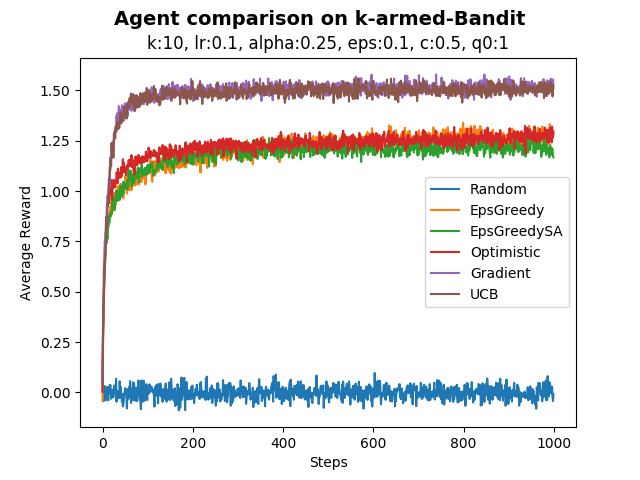
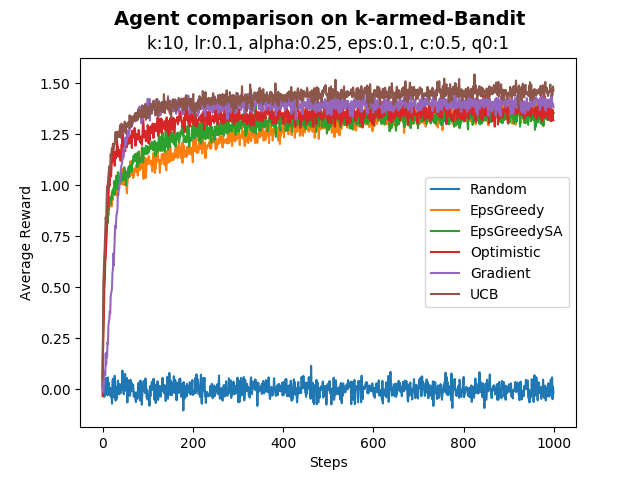
final

diff --git a/lab_session1/bandits/agents.py b/lab_session1/bandits/agents.py
@@ -85,11 +85,11 @@ class Random_Agent(Bandit_Agent):
 class EpsGreedy_SampleAverage(Bandit_Agent):
     # TODO: implement this class following the formalism above.
     # This class uses Sample Averages to estimate q; others are non stationary.
-    def __init__(self, k: int, lr: float, alpha: float, eps: float, c: float, q0: float, **kwargs):
-        self.k = k
+    def __init__(self, k: int, eps: float, **kwargs):
+        super(EpsGreedy_SampleAverage, self).__init__(k, **kwargs)
         keys = [i for i in range(self.k)]
-        self.q = {key: 0 for key in keys}
-        self.n = {key: 1 for key in keys}
+        self.q = {key: 0 for key in keys} #q-values
+        self.n = {key: 1 for key in keys} #number of times action chosen
         self.eps = eps
 
     def reset(self):
@@ -101,94 +101,67 @@ class EpsGreedy_SampleAverage(Bandit_Agent):
         self.q[a] = self.q[a] + (1.0 / self.n[a]) * (r - self.q[a])
         self.n[a] += 1
 
+
     def act(self) -> int:
         # random = np.random.randint(low=0, high=100)
         random = np.random.random_sample()
         if self.eps > random:
-            return np.random.randint(low=0, high=7)
+            return np.random.randint(low=0, high=10)
         else:
             return max(self.q, key=self.q.get)
 
 
-class EpsGreedy(Bandit_Agent):
+class EpsGreedy(EpsGreedy_SampleAverage):
     # TODO: implement this class following the formalism above.
     # Non stationary agent with q estimating and eps-greedy action selection.
-    def __init__(self, k: int, lr: float, alpha: float, eps: float, c: float, q0: float, **kwargs):
-        self.k = k
-        keys = [i for i in range(self.k)]
-        self.q = {key: 0 for key in keys}
-        self.eps = eps
+    def __init__(self, k: int, eps: float, lr: float, **kwargs):
+        super(EpsGreedy, self).__init__(k, eps, **kwargs)
         self.lr = lr
-
-    def reset(self):
-        keys = [i for i in range(self.k)]
-        self.q = {key: 0 for key in keys}
 
     def learn(self, a: int, r: float):
         self.q[a] = self.q[a] + self.lr * (r - self.q[a])
 
-    def act(self) -> int:
-        # random = np.random.randint(low=0, high=100)
-        random = np.random.random_sample()
-        if self.eps > random:
-            return np.random.randint(low=0, high=7)
-        else:
-            return max(self.q, key=self.q.get)
 
-
-class OptimisticGreedy(Bandit_Agent):
+class OptimisticGreedy(EpsGreedy):
     # TODO: implement this class following the formalism above.
     # Same as above but with optimistic starting values.
-    def __init__(self, k: int, lr: float, alpha: float, eps: float, c: float, q0: float, **kwargs):
-        self.k = k
+    def __init__(self, k: int, eps: float, lr: float, q0: float, **kwargs):
+        super(OptimisticGreedy, self).__init__(k, eps, lr, **kwargs)
+        self.q0 = q0
         keys = [i for i in range(self.k)]
-        self.q = {key: q0 for key in keys}
-        self.eps = 0
-        self.lr = lr
+        self.q = {key: self.q0 for key in keys} #initialise q-values
 
     def reset(self):
         keys = [i for i in range(self.k)]
-        self.q = {key: 0 for key in keys}
-
-    def learn(self, a: int, r: float):
-        self.q[a] = self.q[a] + self.lr * (r - self.q[a])
-
-    def act(self) -> int:
-        # random = np.random.randint(low=0, high=100)
-        random = np.random.random_sample()
-        if self.eps > random:
-            return np.random.randint(low=0, high=7)
-        else:
-            return max(self.q, key=self.q.get)
+        self.q = {key: self.q0 for key in keys}
 
 
-class UCB(Bandit_Agent):
+class UCB(EpsGreedy_SampleAverage):
     # TODO: implement this class following the formalism above.
-    def __init__(self, k: int, lr: float, alpha: float, eps: float, c: float, q0: float, **kwargs):
-        self.k = k
+    def __init__(self, k: int, eps: float, c: float, **kwargs):
+        super(UCB, self).__init__(k, eps, **kwargs) #uses q-function of sample average
         self.c = c
         keys = [i for i in range(self.k)]
-        self.q = {key: 0 for key in keys}
-        self.n = {key: 1 for key in keys}
-        self.a = {key: 0 for key in keys}
+        self.A = {key: 0 for key in keys} #At
         self.t = 1
-        self.eps = eps
 
     def reset(self):
+        super(UCB, self).reset()
         keys = [i for i in range(self.k)]
-        self.q = {key: 0 for key in keys}
-        self.n = {key: 1 for key in keys}
+        self.A = {key: 0 for key in keys} #At
+        self.t = 1
 
     def learn(self, a: int, r: float):
-        self.q[a] = self.q[a] + (1.0 / self.n[a]) * (r - self.q[a])
-        self.t += 1
-        self.n[a] += 1
-
-    def act(self) -> int:
+        super(UCB, self).learn(a, r)
+        #update all action values
         for a in range(self.k):
             ln = np.log(self.t)
-            self.a[a] = self.q[a] + (self.c * np.sqrt(ln / self.n[a]))
-        return max(self.a, key=self.a.get)
+            self.A[a] = self.q[a] + (self.c * np.sqrt(ln / self.n[a]))
+
+        self.t += 1
+
+    def act(self) -> int:
+        return max(self.A, key=self.A.get)
 
 
 class Gradient_Bandit(Bandit_Agent):
@@ -196,36 +169,37 @@ class Gradient_Bandit(Bandit_Agent):
     # If you want this to run fast, use the my_random_choice function from
     # utils instead of np.random.choice to sample from the softmax
     # You can also find the softmax function in utils.
-    def __init__(self, k: int, lr: float, alpha: float, eps: float, c: float, q0: float, **kwargs):
-        self.k = k
-        self.c = c
+    def __init__(self, k: int, alpha: float, **kwargs):
+        super(Gradient_Bandit, self).__init__(k, **kwargs)
         self.alpha = alpha
         keys = [i for i in range(self.k)]
-        self.n = {key: 1 for key in keys}
-        self.a = {key: 0 for key in keys}
-        self.h = {key: 1.0/10.0 for key in keys}
-        self.pi = {}
-        self.t = 1
-        self.eps = eps
+        self.h = {key: 1.0/self.k for key in keys}
         self.sum = 0
+        self.AVG = 0
+        self.t = 0
 
     def reset(self):
+        super(Gradient_Bandit, self).reset()
         keys = [i for i in range(self.k)]
-        self.n = {key: 1 for key in keys}
+        self.h = {key: 1.0/self.k for key in keys}
+        self.sum = 0
+        self.AVG = 0
+        self.t = 0
 
     def learn(self, a: int, r: float): #H-functies a->A
-        ln = np.log(self.t)
+        # keep average of all rewards
         self.sum += r
-        AVG = self.sum / self.t
-        #self.a[a] = self.q[a] + (self.c * np.sqrt(ln / self.n[a]))
-        for i in range(self.k):
-            if i != a:
-                self.h[a] = self.h[a] - self.alpha * (r - AVG) * softmax(a)
-            else:
-                self.h[a] = self.h[a] - self.alpha * (r - AVG) *(1-softmax(a))
         self.t += 1
-        self.n[a] += 1
+        self.AVG = self.sum / self.t
 
+        At = a #max(self.A, key=self.A.get)
 
-    def act(self) -> int: #softmax
-        return my_random_choice(self.k, list(self.pi.values()))
+        for i in range(self.k):
+            if i == At:
+                self.h[i] = self.h[i] + (self.alpha * (r - self.AVG) * (1-softmax(list(self.h.values()))[a]))
+            else:
+                self.h[i] = self.h[i] - (self.alpha * (r - self.AVG) * softmax(list(self.h.values()))[a])
+        return
+
+    def act(self) -> int:
+        return my_random_choice(self.k, softmax(list(self.h.values())))

diff --git a/lab_session1/bandits/launcher.py b/lab_session1/bandits/launcher.py
@@ -158,12 +158,12 @@ launch_type = 'multiple_agents'
 
 if launch_type == 'multiple_agents':
     agents = [
-        # Random_Agent(**config),
-        # EpsGreedy(**config),
-        # EpsGreedy_SampleAverage(**config),
-        # OptimisticGreedy(**config),
+        Random_Agent(**config),
+        EpsGreedy(**config),
+        EpsGreedy_SampleAverage(**config),
+        OptimisticGreedy(**config),
         Gradient_Bandit(**config),
-        #UCB(**config)
+        UCB(**config)
     ]
     perfs, best_actions = run_multiple_agents(agents, kbandit=kbandit, n_runs=n_runs, max_steps=max_steps)
     # You can change the labels, title and file_name
